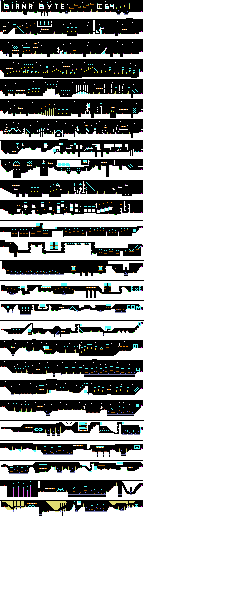
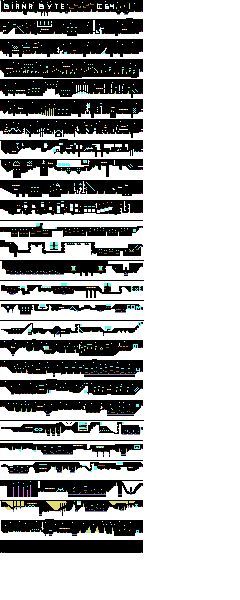
added ground monster speed param, added deady ball. added 26th and started 27 lvl

Changed region(s): [[0.0, 0.84, 0.6125, 0.93]]

diff --git a/core/src/com/mdinic/game/giana/GoundMonsterType.java b/core/src/com/mdinic/game/giana/GoundMonsterType.java
@@ -2,15 +2,16 @@ package com.mdinic.game.giana;
 
 public enum GoundMonsterType {
 
-    OWL(0x7a2991, false, true), JELLY(0x5a2b8f, false, true), LOBSTER(0x5ad68f, true, true), WORM(0xb5b737, true, false), EYE(
-            0xffb662, true, true), BUG(0x3dff3d, true, true, 1f, 0.5f), YELLOW_ALIEN(0x3d223d, true, false), PURPLE_ALIEN(
-            0xc640c4, true, true), DAGGER(0xe8c056, true, true, 1, 0.8f);
+    OWL(0x7a2991, false, true), JELLY(0x5a2b8f, false, true, 1.1f), LOBSTER(0x5ad68f, true, true, 1.3f), WORM(0xb5b737,
+            true, false), EYE(0xffb662, true, true, 1.2f), BUG(0x3dff3d, true, true, 1f, 0.5f, 2f), YELLOW_ALIEN(
+            0x3d223d, true, false), PURPLE_ALIEN(0xc640c4, true, true), DAGGER(0xe8c056, true, true, 1, 0.8f);
 
     boolean needsMirror;
     int mapColor;
     boolean canBeKilled;
     float width;
     float height;
+    float speed;
 
     GoundMonsterType(int mapColor, boolean needsMirror, boolean canBeKilled) {
         this.mapColor = mapColor;
@@ -18,6 +19,7 @@ public enum GoundMonsterType {
         this.canBeKilled = canBeKilled;
         this.width = 1;
         this.height = 1;
+        this.speed = 1;
     }
 
     GoundMonsterType(int mapColor, boolean needsMirror, boolean canBeKilled, float width, float height) {
@@ -26,6 +28,25 @@ public enum GoundMonsterType {
         this.canBeKilled = canBeKilled;
         this.width = width;
         this.height = height;
+        this.speed = 1;
+    }
+
+    GoundMonsterType(int mapColor, boolean needsMirror, boolean canBeKilled, float speed) {
+        this.mapColor = mapColor;
+        this.needsMirror = needsMirror;
+        this.canBeKilled = canBeKilled;
+        this.width = 1;
+        this.height = 1;
+        this.speed = speed;
+    }
+
+    GoundMonsterType(int mapColor, boolean needsMirror, boolean canBeKilled, float width, float height, float speed) {
+        this.mapColor = mapColor;
+        this.needsMirror = needsMirror;
+        this.canBeKilled = canBeKilled;
+        this.width = width;
+        this.height = height;
+        this.speed = speed;
     }
 
     public static GoundMonsterType containsColor(int color) {

diff --git a/core/src/com/mdinic/game/giana/MapRenderer.java b/core/src/com/mdinic/game/giana/MapRenderer.java
@@ -78,6 +78,10 @@ public class MapRenderer {
     private final Animation treatBallLeftAnim;
     private final Animation piranhaUpAnim;
     private final Animation piranhaDownAnim;
+
+    private final Animation ballDownAnim;
+    private final Animation ballUpAnim;
+
     private final Animation waspRightAnim;
     private final Animation waspLeftAnim;
     public final Animation yellowCristalAnim;
@@ -201,6 +205,11 @@ public class MapRenderer {
         }
 
         waspLeftAnim = new Animation(0.3f, waspRegionLeft);
+
+        TextureRegion[] ballRegions = new TextureRegion(new Texture(Gdx.files.internal("data/ball.png"))).split(24, 20)[0];
+
+        ballUpAnim = new Animation(0.2f, ballRegions[0], ballRegions[1], ballRegions[2]);
+        ballDownAnim = new Animation(1f, ballRegions[3]);
 
         piranhaUpAnim = new Animation(0.2f,
                 new TextureRegion(new Texture(Gdx.files.internal("data/piranha.png"))).split(20, 20)[0]);
@@ -342,6 +351,7 @@ public class MapRenderer {
 
         renderFixedTraps();
         renderPiranhas();
+        renderBalls();
         drawBlocks();
 
         renderSimpleImages();
@@ -589,6 +599,16 @@ public class MapRenderer {
         }
     }
 
+    private void renderBalls() {
+        for (Ball ball : map.balls) {
+            if (ball.state == Ball.FORWARD)
+                batch.draw(ballUpAnim.getKeyFrame(ball.stateTime, true), ball.pos.x, ball.pos.y, 1, 1);
+            else
+                batch.draw(ballDownAnim.getKeyFrame(ball.stateTime, true), ball.pos.x, ball.pos.y, 1, 1);
+
+        }
+    }
+
     private void renderQuickSand() {
         BrickColor color;
         if (map.bonus) {
@@ -749,6 +769,9 @@ public class MapRenderer {
         disposeAnimation(doubleLightningAnim);
         disposeAnimation(whiteCristalAnim);
         disposeAnimation(yellowCristalAnim);
+
+        disposeAnimation(ballUpAnim);
+        disposeAnimation(ballDownAnim);
 
         batch.dispose();
     }

diff --git a/core/src/com/mdinic/game/giana/Ball.java b/core/src/com/mdinic/game/giana/Ball.java
@@ -1,0 +1,71 @@
+package com.mdinic.game.giana;
+
+import com.badlogic.gdx.math.Rectangle;
+import com.badlogic.gdx.math.Vector2;
+
+public class Ball {
+    static final int FORWARD = 1;
+    static final int BACKWARD = -1;
+    static final float FORWARD_VEL = 5;
+    static final float BACKWARD_VEL = 3;
+
+    boolean alive = true;
+
+    int state = FORWARD;
+    float stateTime = 0;
+    GameMap map;
+    Rectangle bounds = new Rectangle();
+
+    Vector2 vel = new Vector2();
+    Vector2 pos = new Vector2();
+    Vector2 startPos = new Vector2();
+
+    public Ball(GameMap map, float x, float y) {
+
+        this.map = map;
+        pos.x = x;
+        pos.y = y;
+        bounds.x = x;
+        bounds.y = y;
+        bounds.width = bounds.height = 1;
+
+        startPos.x = x;
+        startPos.y = y;
+
+        vel.set(0, FORWARD_VEL);
+    }
+
+    public void update(float deltaTime) {
+        stateTime += deltaTime;
+        bounds.x += vel.x * deltaTime;
+        bounds.y += vel.y * deltaTime;
+
+        boolean change = false;
+        if (state == FORWARD) {
+            change = pos.y - 2 > startPos.y;
+        } else {
+            change = pos.y < startPos.y;
+        }
+        if (change) {
+            stateTime = 0;
+            bounds.x -= vel.x * deltaTime;
+            bounds.y -= vel.y * deltaTime;
+            state = -state;
+            vel.scl(-3);
+            if (state == FORWARD)
+                vel.nor().scl(FORWARD_VEL);
+            if (state == BACKWARD)
+                vel.nor().scl(BACKWARD_VEL);
+        }
+
+        if (alive && map.giana.bounds.overlaps(bounds) && !map.demo) {
+            if (map.giana.state != GianaState.DYING) {
+                map.giana.state = GianaState.DYING;
+                map.giana.stateTime = 0;
+            }
+        }
+
+        pos.x = bounds.x;
+        pos.y = bounds.y;
+    }
+}

diff --git a/core/src/com/mdinic/game/giana/GameMap.java b/core/src/com/mdinic/game/giana/GameMap.java
@@ -21,6 +21,7 @@ public class GameMap {
 
     static int DIAMOND = 5570300;
     static int PIRANHA = 0x6a75ff;
+    static int BALL = 0x6a0101;
 
     static int TREAT_BOX = 0xff8a00;
     static int TREAT_BOX_BALL = 0xffcb8d;
@@ -60,6 +61,7 @@ public class GameMap {
 
     Array<Bee> bees = new Array<Bee>();
     Array<Fish> fishes = new Array<Fish>();
+    Array<Ball> balls = new Array<Ball>();
     Array<FixedTrap> fixedTraps = new Array<FixedTrap>();
 
     public SimpleImage endDoor;
@@ -172,6 +174,8 @@ public class GameMap {
                     diamonds.add(new Diamond(this, x, newY));
                 } else if (match(pix, PIRANHA)) {
                     fishes.add(new Fish(this, x, newY));
+                } else if (match(pix, BALL)) {
+                    balls.add(new Ball(this, x, newY));
                 } else if (match(pix, QUICK_SAND)) {
                     quickSandArray.add(new QuickSand(this, x, newY));
                     tiles[x][y] = pix;
@@ -272,6 +276,10 @@ public class GameMap {
 
         for (Fish fish : fishes) {
             fish.update(deltaTime);
+        }
+
+        for (Ball ball : balls) {
+            ball.update(deltaTime);
         }
 
         for (Tile tile : tileArray) {

diff --git a/core/src/com/mdinic/game/giana/screens/GianaSistersScreen.java b/core/src/com/mdinic/game/giana/screens/GianaSistersScreen.java
@@ -12,7 +12,7 @@ public abstract class GianaSistersScreen implements Screen {
 
     public static final int SCREEN_WIDTH = 480;
     public static final int SCREEN_HEIGHT = 320;
-    public static final int LEVEL_COUNT = 25;
+    public static final int LEVEL_COUNT = 27;
 
     public GianaSistersScreen(Game game, MapRenderer renderer) {
         this.game = game;

diff --git a/core/src/com/mdinic/game/giana/GroundMonster.java b/core/src/com/mdinic/game/giana/GroundMonster.java
@@ -15,7 +15,7 @@ public class GroundMonster extends Monster {
         this.type = type;
         this.bounds.width = type.width;
         this.bounds.height = type.height;
-        vel.set(1, 0);
+        vel.set(type.speed, 0);
     }
 
     public void update(float deltaTime) {
